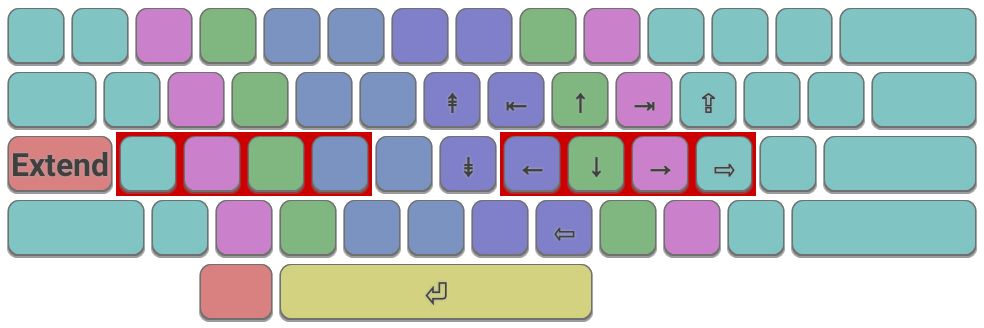
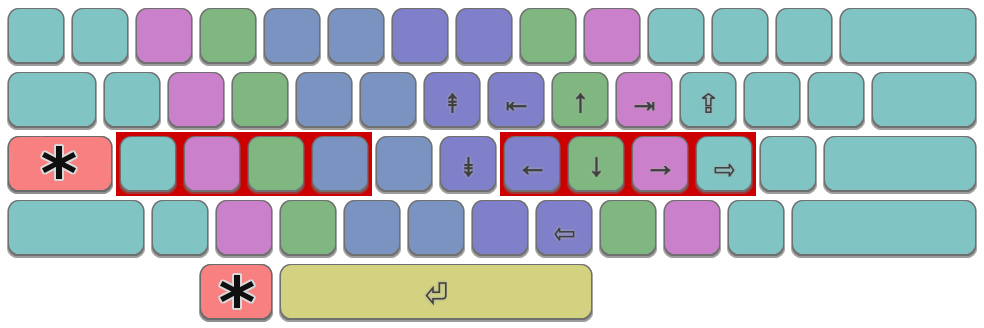
update extend layer info

Changed region(s): [[0.0, 0.3963, 0.122, 0.5793], [0.1829, 0.7927, 0.2744, 0.9756]]

diff --git a/extend.html b/extend.html
@@ -58,12 +58,14 @@
 
 <p>The Extend Layer aims to keep your hands over the main body of the keyboard, by providing the most common editing features as close as possible to your home key fingers. Because your hands remain in the home position, you can make rapid edits without needing to look down at the keyboard.</p>
 
-<p class="caption"><img src="gfx/extend_simple_ansi.png"/><br/>A simple, minimal Extend layer providing arrow keys, home/end, page up/down on intuitive and easy-to-reach keys. Most implementations provide many more features including text selection, cut/copy/paste, browser and mouse functions. Extend mode is activated by pressing a specifically configured key (e.g. CapsLock or LeftAlt). See Resources section for more details.</p>
+<p class="caption"><img src="gfx/extend_simple_ansi.png"/><br/>A simple, minimal Extend layer providing arrow keys, home/end, page up/down on intuitive and easy-to-reach keys for the right hand. Extend mode is activated by pressing a specifically configured key, the most common options are indicated with an asterisk (i.e. LeftAlt or CapsLock).</p>
 
 <p>Extend is the most powerful of the mods presented here. Those who start using it find it indispensable within a short space of time. The intuitive pattern of navigation keys makes it both effective and easy to learn.</p>
 
 <h3><a name="resources" class="anchor" href="#resources">
 <span class="octicon octicon-link"></span></a>Resources</h3>
+
+<p>Here are some example implementations. Most of these provide a wide range features in addition to navigation, including text selection, cut/copy/paste, plus browser and mouse functions.</p>
 
 <a href="http://forum.colemak.com/viewtopic.php?id=2014">DreymaR's Extend Layer</a> for Linux/XKB and Windows/PKL.<br/>
 <a href="https://github.com/stevep99/keyboard-tweaks/tree/master/ExtendLayer">SteveP's Extend Layer</a> for Windows/AutoHotKey.<br/>
